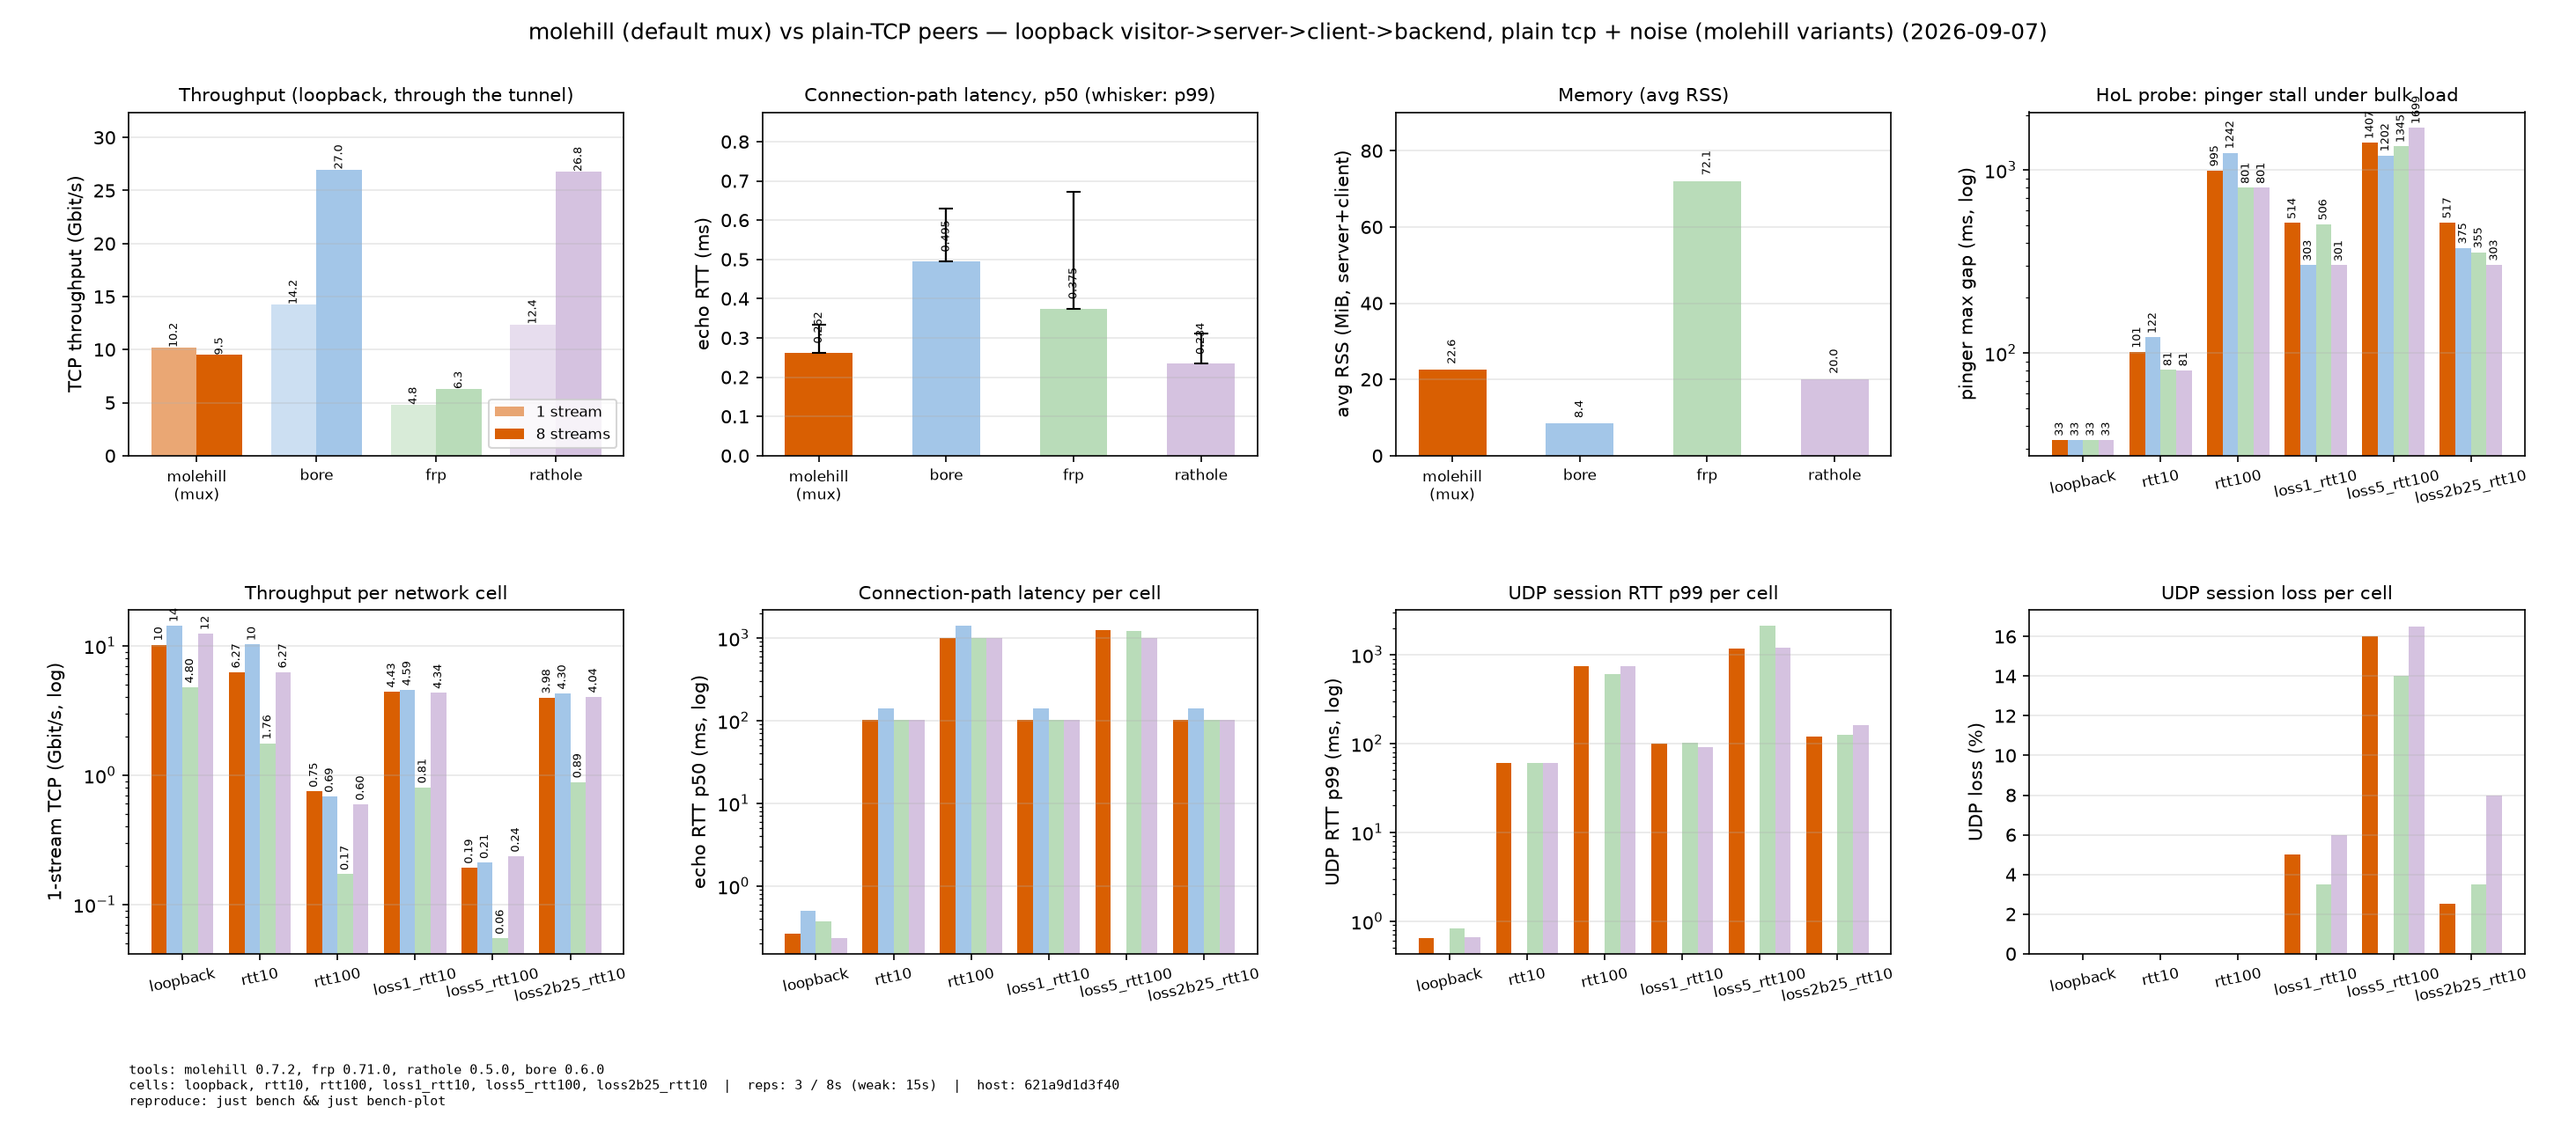
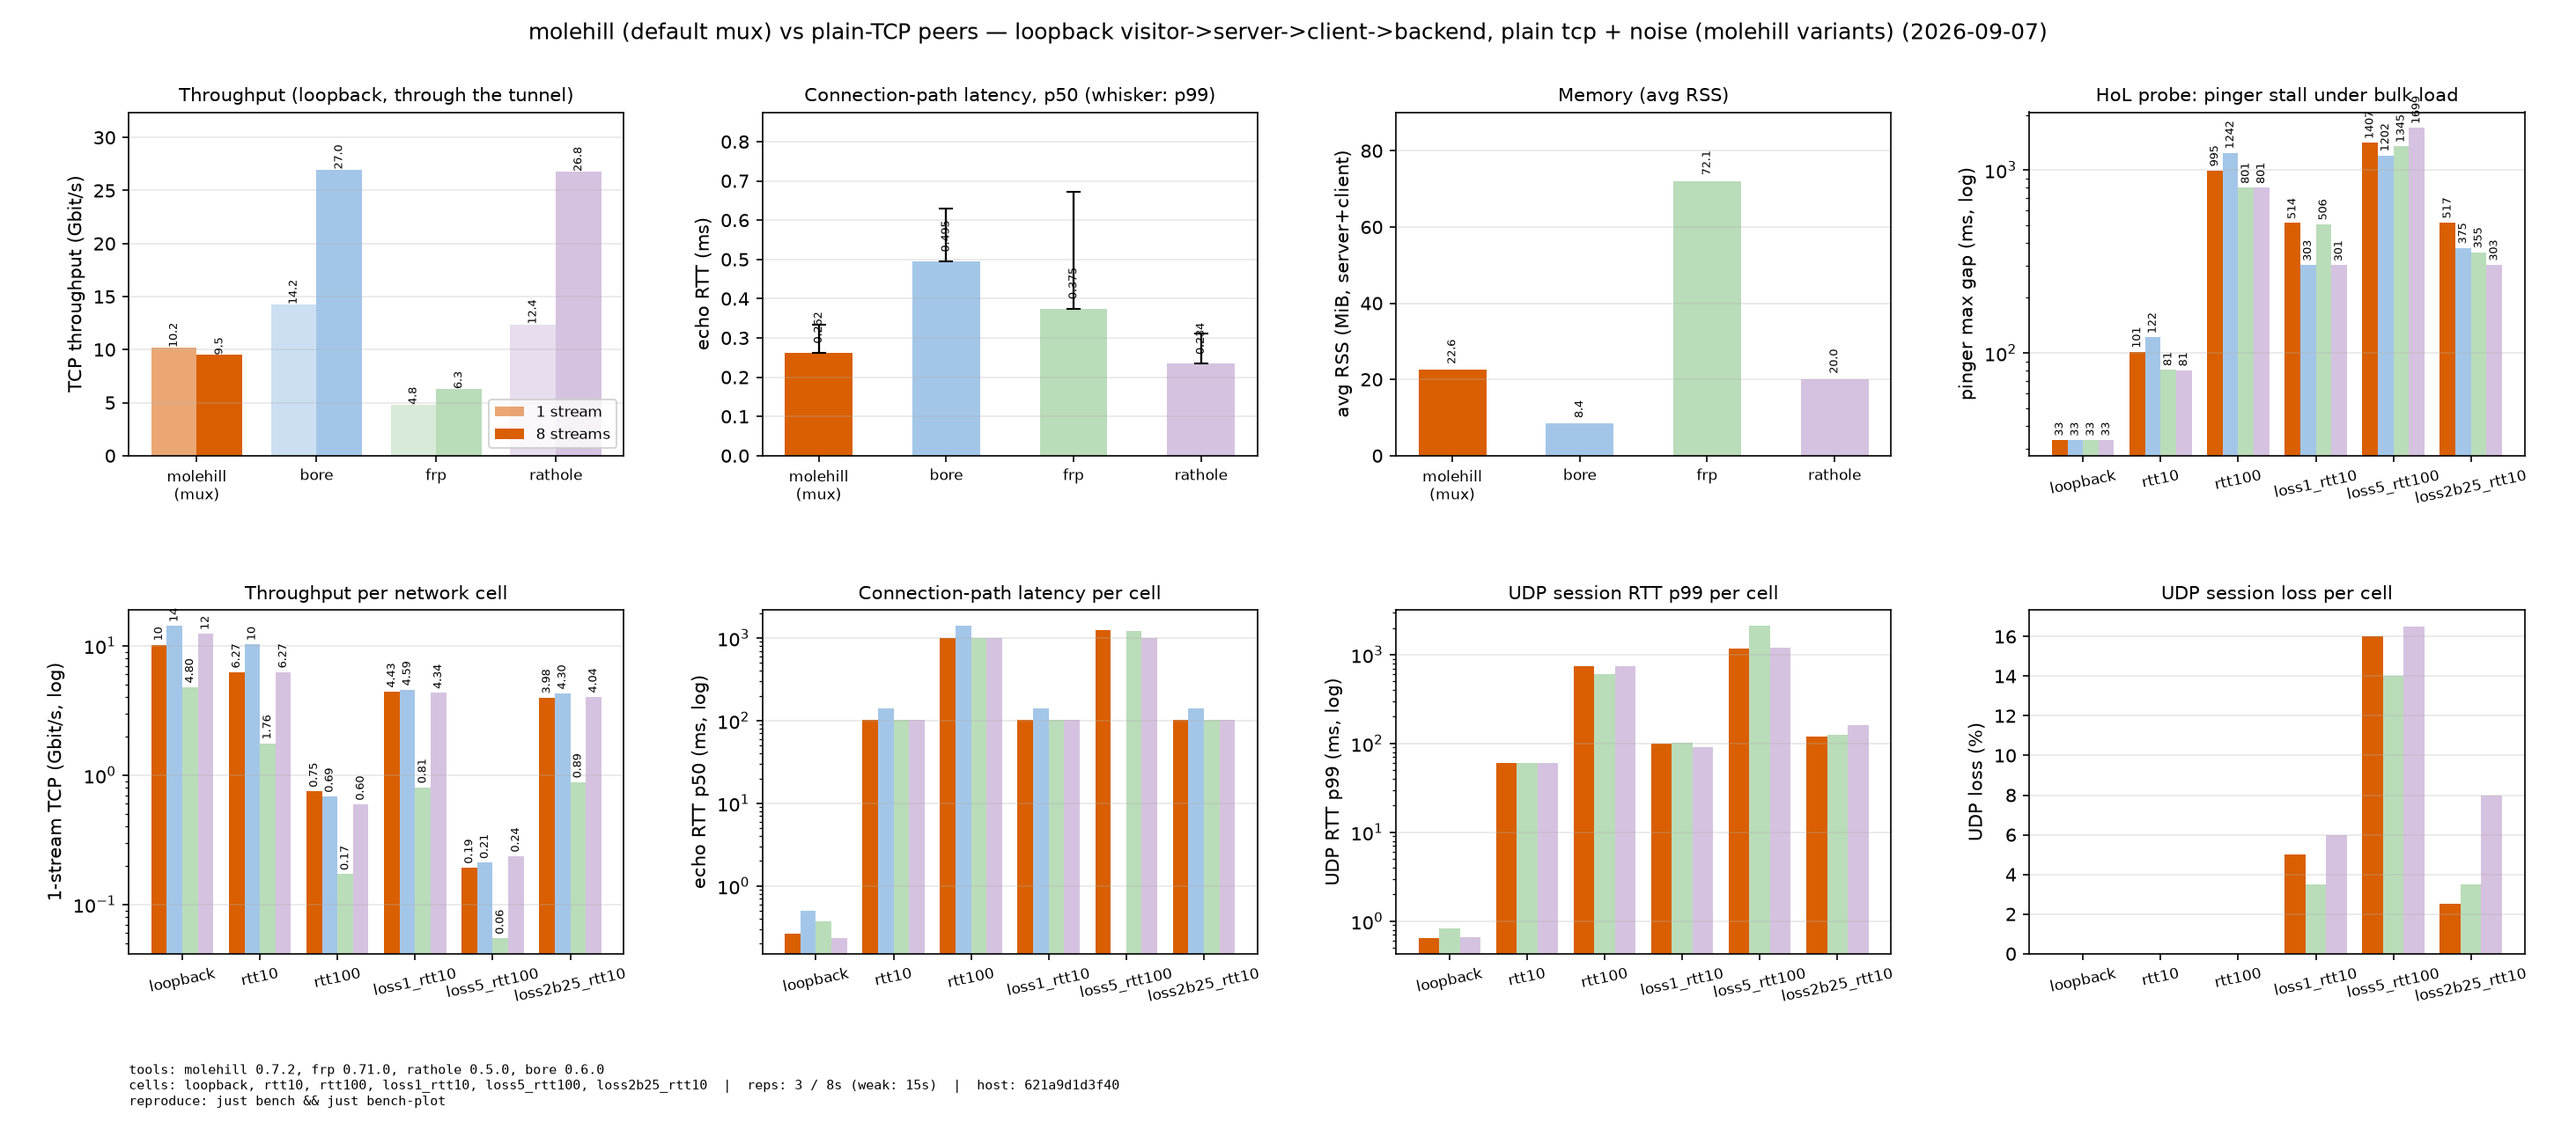
fix(bench): drop TCP-only bore from the UDP chart panels
bore has no UDP metrics; the UDP RTT/loss panels used to leave an empty
slot under its label. The panels now include only tools that forward UDP.

Changed region(s): [[0.56, 0.5506, 0.7156, 0.8565], [0.8711, 0.5812, 0.9644, 0.8565]]

diff --git a/benches/scripts/bench/plot_bench.py b/benches/scripts/bench/plot_bench.py
@@ -209,16 +209,21 @@ def render_main(results, meta, out_path):
     ax_crtt.set_ylabel("echo RTT p50 (ms, log)")
     ax_crtt.set_title("Connection-path latency per cell", fontsize=10)
 
+    # bore is TCP-only and carries no UDP metrics: drop it from the UDP
+    # panels so it does not occupy an empty slot
+    udp_tools = [t for t in tools
+                 if read(results, t, loopback, "udp_rtt_ms") is not None]
+
     def udp_rtt99(t, cell):
         return (read(results, t, cell, "udp_rtt_ms") or {}).get("p99")
-    bar_group(ax_udprtt, tools, colors, cells, udp_rtt99, log=True,
+    bar_group(ax_udprtt, udp_tools, colors, cells, udp_rtt99, log=True,
               floor=1e-1)
     ax_udprtt.set_ylabel("UDP RTT p99 (ms, log)")
     ax_udprtt.set_title("UDP session RTT p99 per cell", fontsize=10)
 
     def udp_loss(t, cell):
         return read(results, t, cell, "udp_loss_pct")
-    bar_group(ax_udploss, tools, colors, cells, udp_loss)
+    bar_group(ax_udploss, udp_tools, colors, cells, udp_loss)
     ax_udploss.set_ylabel("UDP loss (%)")
     ax_udploss.set_title("UDP session loss per cell", fontsize=10)
 
